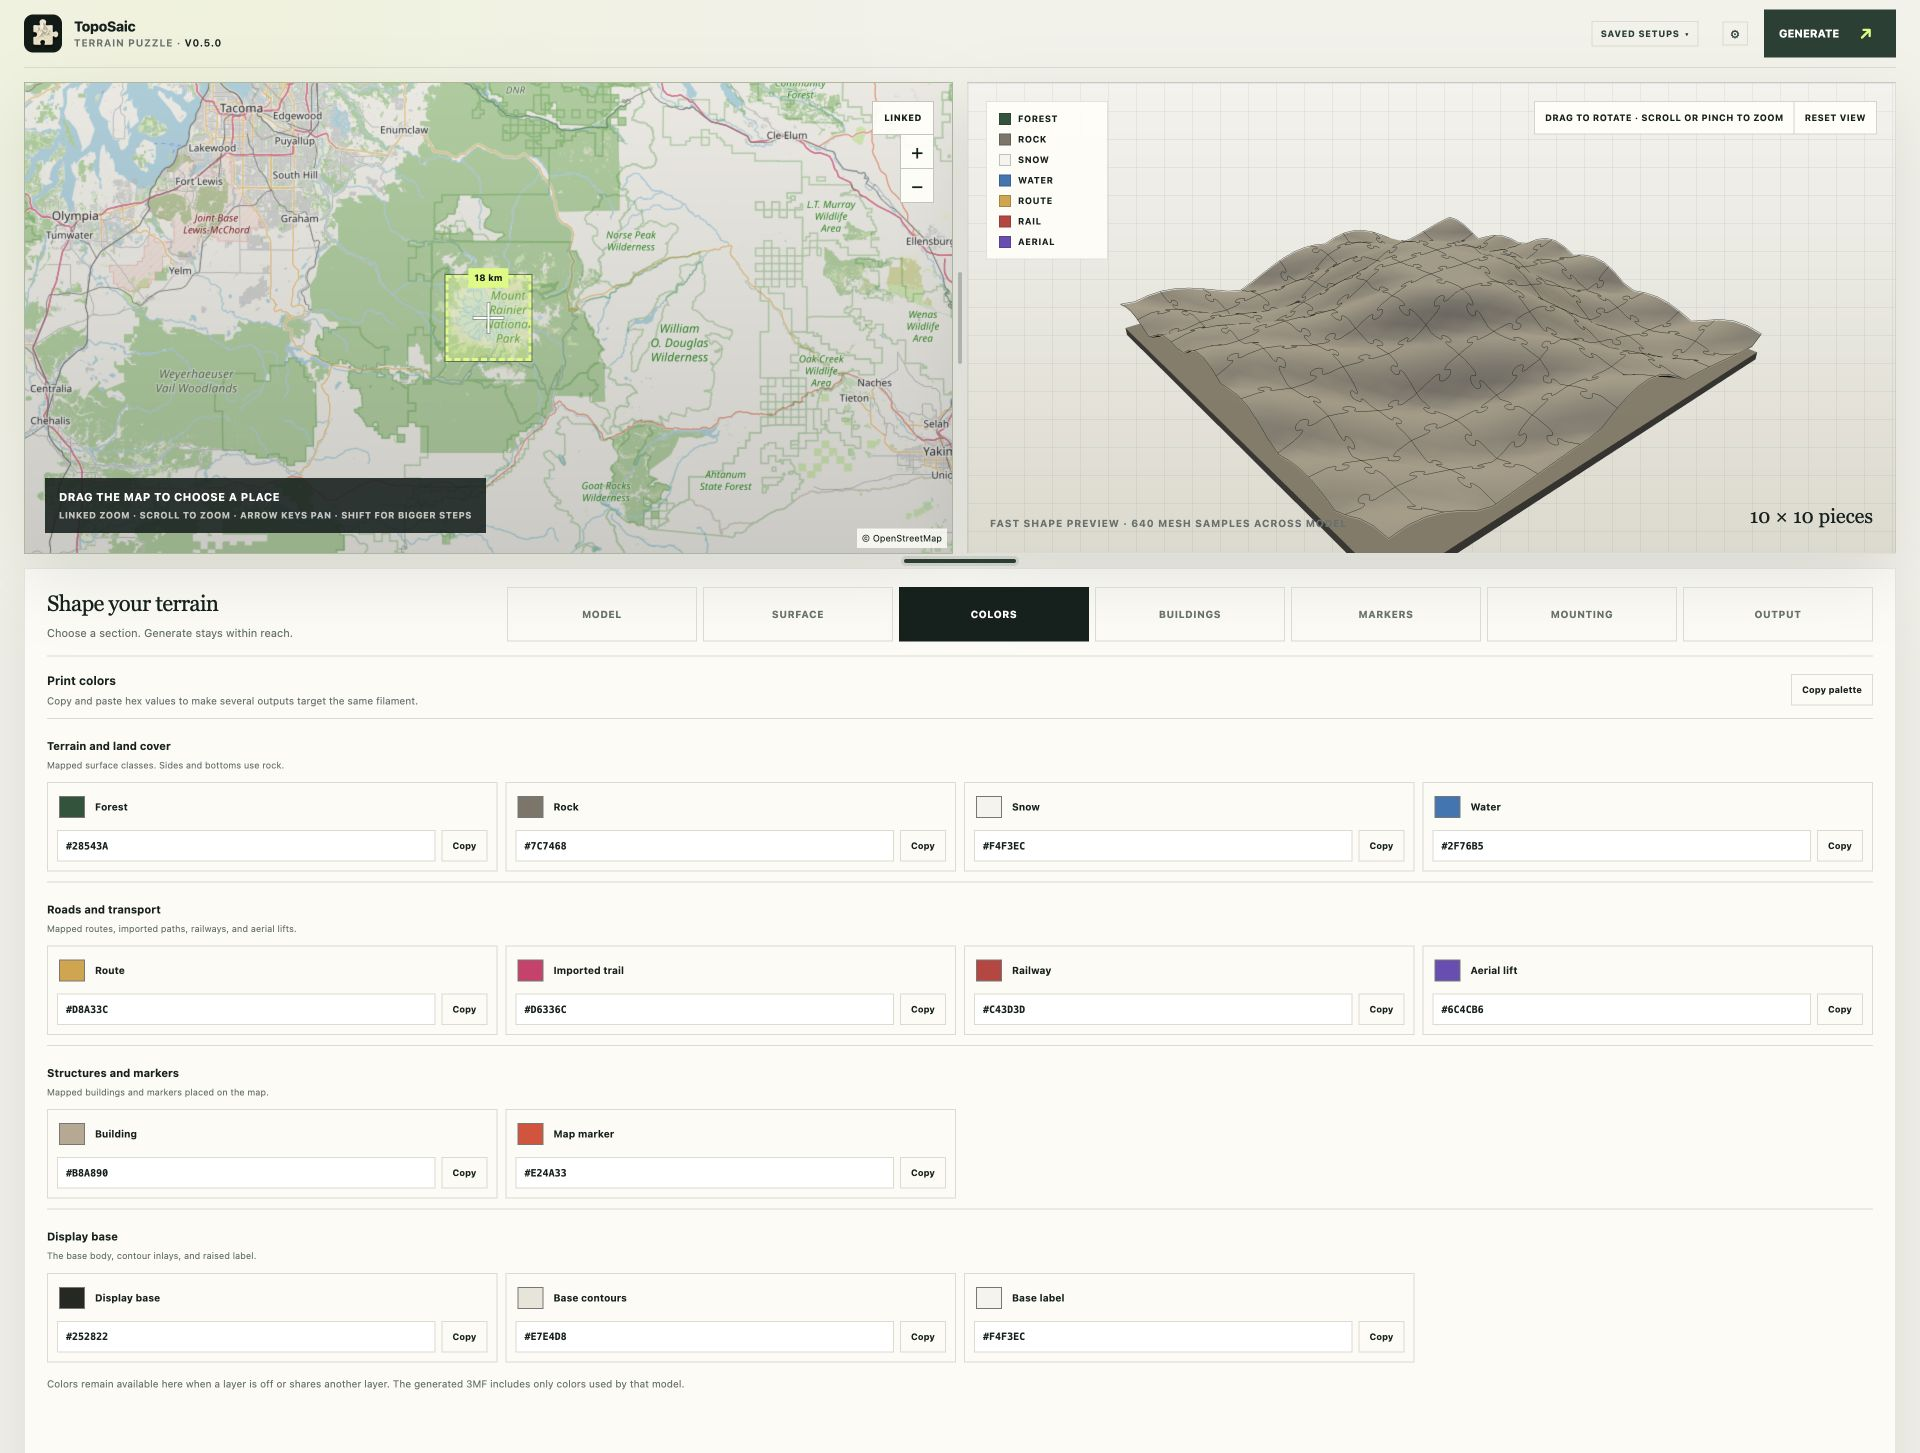
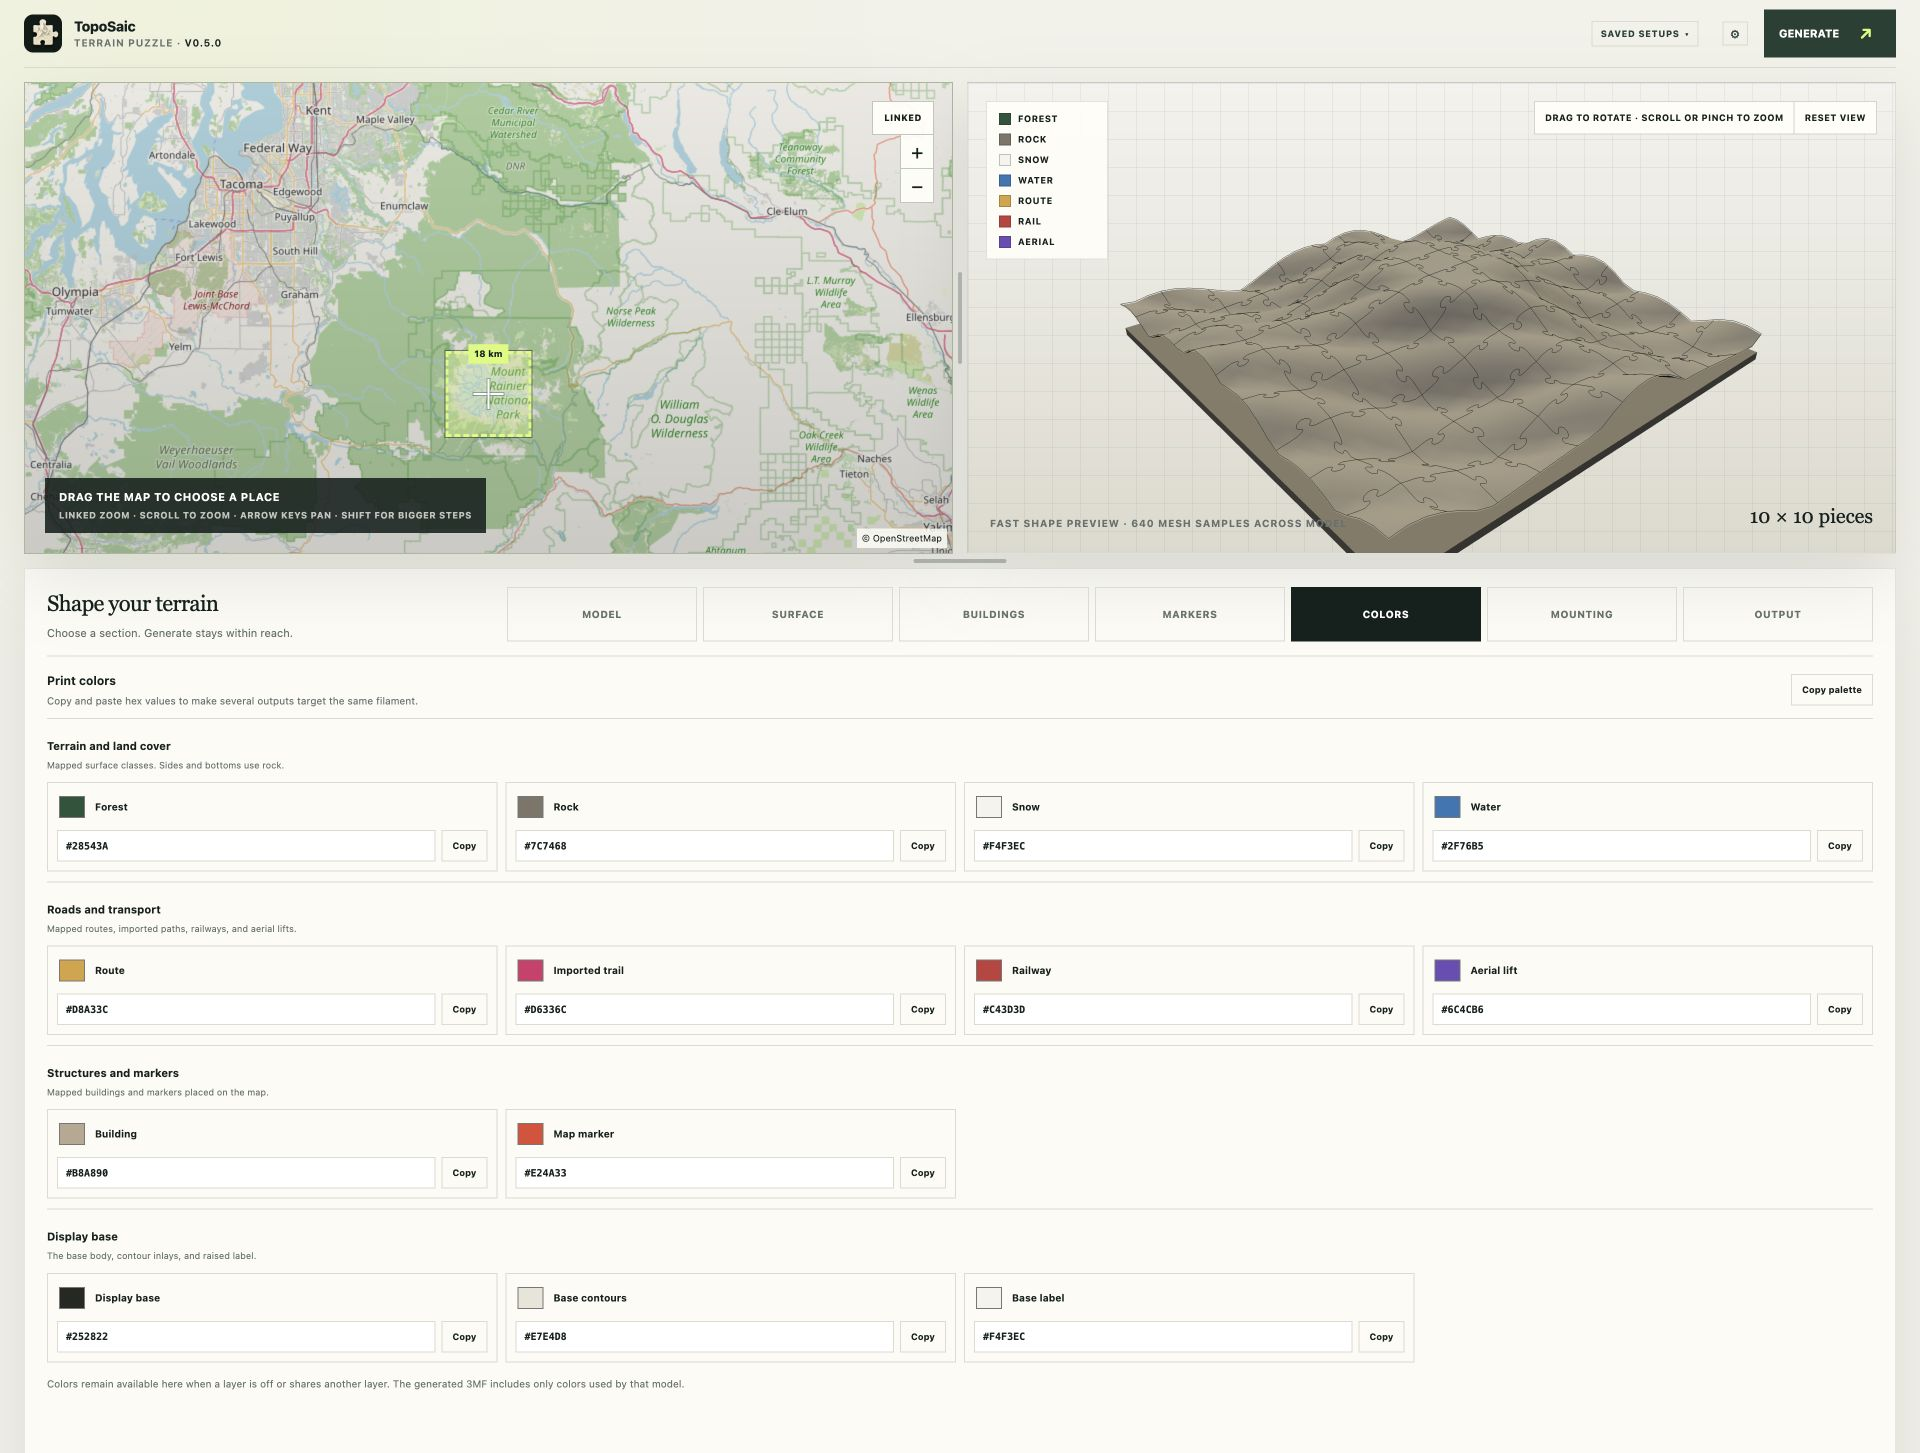
Place Colors before Mounting

diff --git a/app/terrain/studio.tsx b/app/terrain/studio.tsx
@@ -1875,9 +1875,9 @@ export function TerrainStudio() {
               [
                 ["model", "Model"],
                 ["surface", "Surface"],
-                ["colors", "Colors"],
                 ["buildings", "Buildings"],
                 ["markers", "Markers"],
+                ["colors", "Colors"],
                 ["mounting", "Mounting"],
                 ["output", "Output"],
               ] as const
@@ -1939,14 +1939,6 @@ export function TerrainStudio() {
             updateColor={updateColor}
           />
 
-          <ColorsPanel
-            hidden={activeSection !== "colors"}
-            spec={spec}
-            updateColor={updateColor}
-            updateMarkerSettings={updateMarkerSettings}
-            updateTray={updateTray}
-          />
-
           <BuildingsPanel
             hidden={activeSection !== "buildings"}
             spec={spec}
@@ -1961,6 +1953,14 @@ export function TerrainStudio() {
             spec={spec}
             updateMarker={updateMarker}
             updateMarkerSettings={updateMarkerSettings}
+          />
+
+          <ColorsPanel
+            hidden={activeSection !== "colors"}
+            spec={spec}
+            updateColor={updateColor}
+            updateMarkerSettings={updateMarkerSettings}
+            updateTray={updateTray}
           />
 
           <ModelTypePanel

diff --git a/tests/ui/controls.spec.ts b/tests/ui/controls.spec.ts
@@ -32,6 +32,15 @@ test("switches between the reflowed control panels", async ({ page }) => {
   await expect(
     page.getByRole("heading", { name: "Shape your terrain" }),
   ).toBeVisible();
+  await expect(page.getByRole("tab")).toHaveText([
+    "Model",
+    "Surface",
+    "Buildings",
+    "Markers",
+    "Colors",
+    "Mounting",
+    "Output",
+  ]);
   await expect(generate).toHaveAttribute("form", "terrain-controls");
   await expect(page.getByLabel("Find a place")).toBeVisible();
   const elevationSource = page.getByLabel("Elevation tiles");
